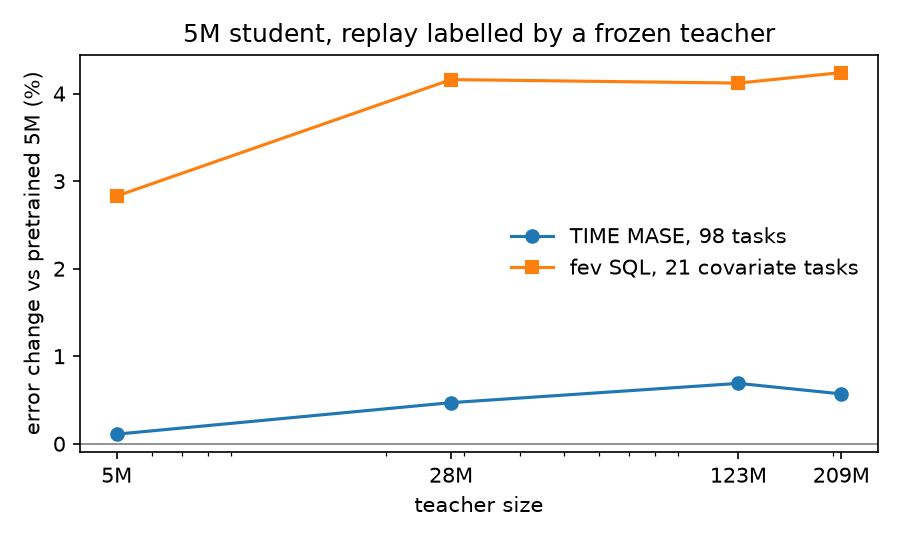
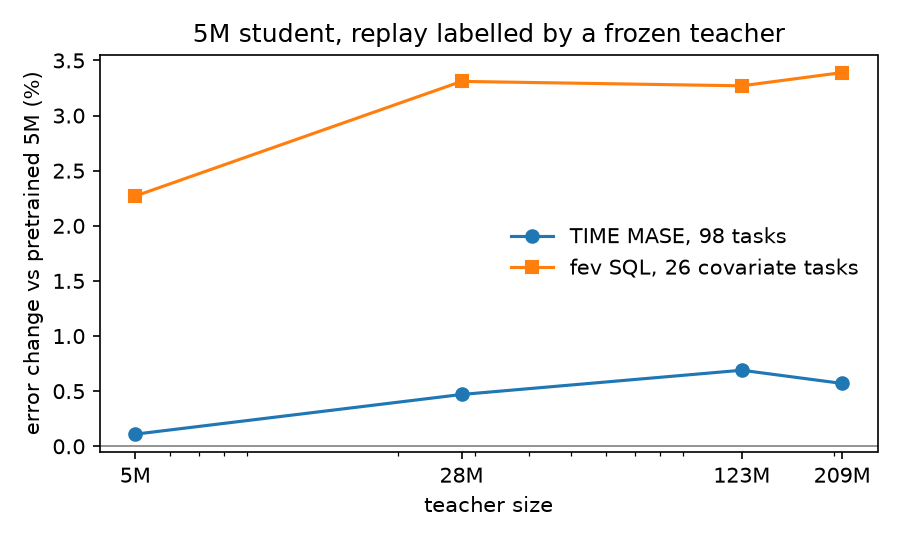
Fill in the finished 123M fev run

diff --git a/findings/teacher-size.md b/findings/teacher-size.md
@@ -17,23 +17,23 @@ Whether labelling the replay series with a bigger frozen Timestral, instead of t
 
 ## Benchmarks
 
-Changes are in the error against pretrained Timestral-5M, so a negative number is a lower error. TIME is all 98 tasks. fev is the 26-task covariate subset. The 123M fev run finished 21 of the 26 tasks, so the size curve in the figure uses the 21 tasks every run has.
+Changes are in the error against pretrained Timestral-5M, so a negative number is a lower error. TIME is all 98 tasks. fev is the 26-task covariate subset.
 
 ![Error change against teacher size. TIME MASE and fev SQL both rise once the teacher is bigger than the student.](teacher-size.png)
 
-| run | TIME MASE | TIME QL | TIME tasks >+1% | fev SQL, 26 tasks | fev SQL, 21 tasks | fev tasks worse |
+| run | TIME MASE | TIME QL | TIME tasks >+1% | fev SQL | fev MASE | fev tasks worse |
 |---|---:|---:|---:|---:|---:|---:|
-| teacher 5M | +0.11% | +0.05% | 4 | +2.27% | +2.83% | 21 of 26 |
-| teacher 28M | +0.47% | +0.21% | 22 | +3.31% | +4.16% | 20 of 26 |
-| teacher 123M | +0.69% | +0.37% | 26 | | +4.12% | 18 of 21 |
-| teacher 209M | +0.57% | +0.30% | 22 | +3.39% | +4.24% | 20 of 26 |
-| 209M, weight 0.5 | +0.64% | +0.40% | 25 | +2.85% | | 20 of 26 |
-| 209M only | +0.64% | +0.47% | 25 | +1.12% | | 12 of 26 |
+| teacher 5M | +0.11% | +0.05% | 4 | +2.27% | +2.46% | 21 of 26 |
+| teacher 28M | +0.47% | +0.21% | 22 | +3.31% | +3.45% | 20 of 26 |
+| teacher 123M | +0.69% | +0.37% | 26 | +3.27% | +3.38% | 20 of 26 |
+| teacher 209M | +0.57% | +0.30% | 22 | +3.39% | +3.46% | 20 of 26 |
+| 209M, weight 0.5 | +0.64% | +0.40% | 25 | +2.85% | +2.92% | 20 of 26 |
+| 209M only | +0.64% | +0.47% | 25 | +1.12% | +0.99% | 12 of 26 |
 
 The benchmark runs on W&B:
 
 - TIME: 28M [`t4bo3303`](https://forge.coreweave.com/wandb/tfiedlerdev/time-series-models/runs/t4bo3303) (resumed from [`tqhzt79h`](https://forge.coreweave.com/wandb/tfiedlerdev/time-series-models/runs/tqhzt79h)), 123M [`l8ov5pvp`](https://forge.coreweave.com/wandb/tfiedlerdev/time-series-models/runs/l8ov5pvp), 209M [`e2meki9j`](https://forge.coreweave.com/wandb/tfiedlerdev/time-series-models/runs/e2meki9j), weight 0.5 [`27gf68xn`](https://forge.coreweave.com/wandb/tfiedlerdev/time-series-models/runs/27gf68xn), 209M only [`vqwznw4k`](https://forge.coreweave.com/wandb/tfiedlerdev/time-series-models/runs/vqwznw4k).
-- fev: 28M [`9w94xvqq`](https://forge.coreweave.com/wandb/tfiedlerdev/time-series-models/runs/9w94xvqq), 123M [`3ssfpc03`](https://forge.coreweave.com/wandb/tfiedlerdev/time-series-models/runs/3ssfpc03), 209M [`ti8f5h26`](https://forge.coreweave.com/wandb/tfiedlerdev/time-series-models/runs/ti8f5h26), weight 0.5 [`ejeuqwao`](https://forge.coreweave.com/wandb/tfiedlerdev/time-series-models/runs/ejeuqwao), 209M only [`yx0s76jn`](https://forge.coreweave.com/wandb/tfiedlerdev/time-series-models/runs/yx0s76jn).
+- fev: 28M [`9w94xvqq`](https://forge.coreweave.com/wandb/tfiedlerdev/time-series-models/runs/9w94xvqq), 123M [`xtyi6o07`](https://forge.coreweave.com/wandb/tfiedlerdev/time-series-models/runs/xtyi6o07) (resumed from [`3ssfpc03`](https://forge.coreweave.com/wandb/tfiedlerdev/time-series-models/runs/3ssfpc03)), 209M [`ti8f5h26`](https://forge.coreweave.com/wandb/tfiedlerdev/time-series-models/runs/ti8f5h26), weight 0.5 [`ejeuqwao`](https://forge.coreweave.com/wandb/tfiedlerdev/time-series-models/runs/ejeuqwao), 209M only [`yx0s76jn`](https://forge.coreweave.com/wandb/tfiedlerdev/time-series-models/runs/yx0s76jn).
 
 The teacher itself is much better on TIME than the student. Pretrained 209M finished 15 TIME tasks before it was stopped to free memory (it holds about 65 GB on the GB10). On those 15 tasks it is at MASE −7.23% against pretrained 5M, lower on all 15. The 5M students on the same 15 tasks: 5M teacher +0.33%, 28M +0.98%, 123M +1.10%, 209M +0.88%, 209M only +0.42%.
 
